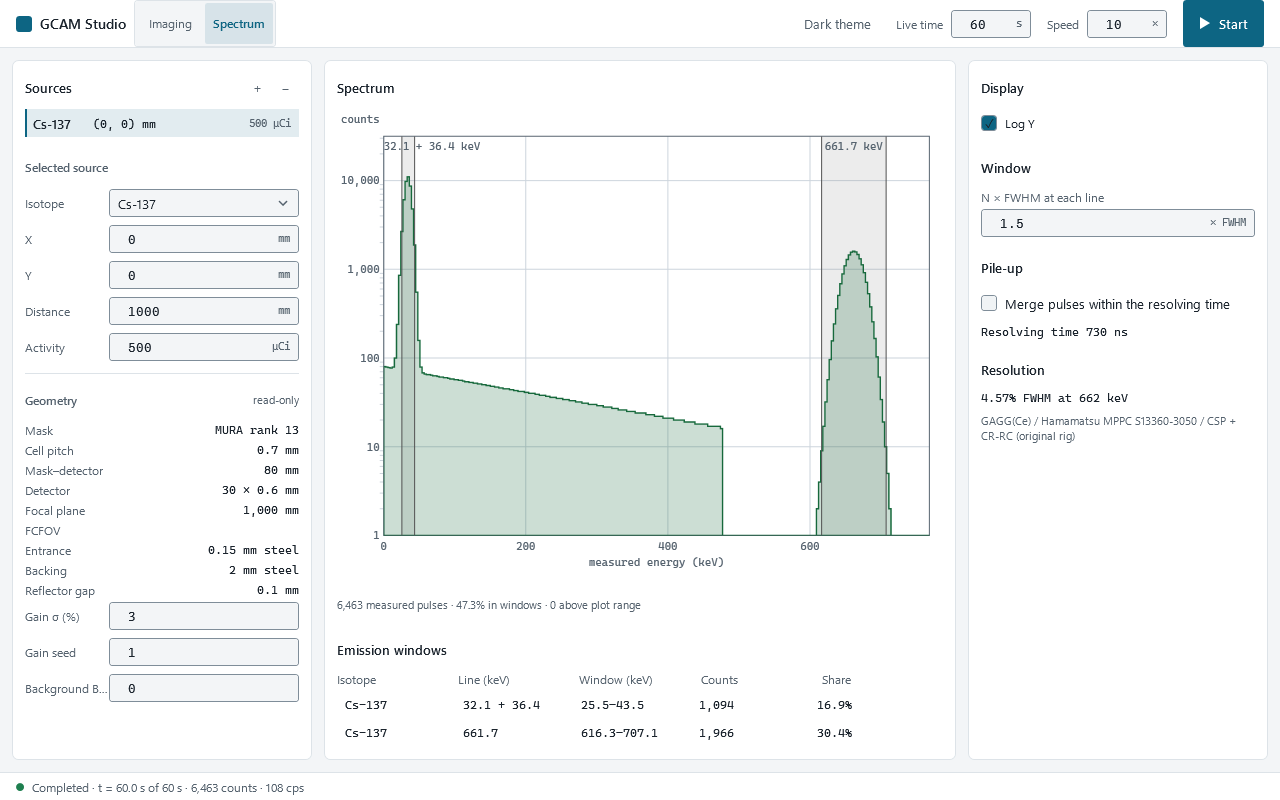
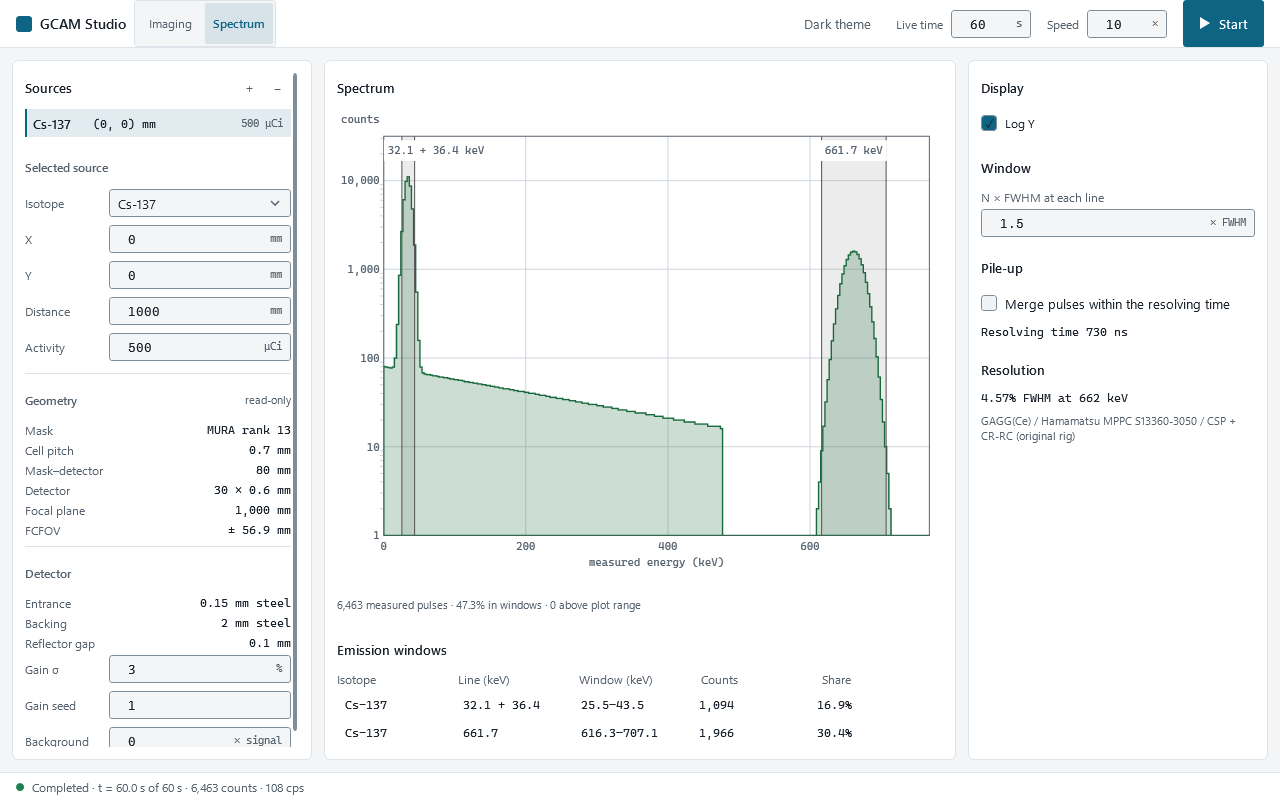
Studio: polish batch 2 - detector section, band label plates, no Window-ancestor bindings
- Left panel: Geometry (read-only) and Detector (entrance, backing, gap as
  facts; gain sigma %, gain seed, background x signal as inputs) split.
- Band labels on an opaque plate drawn after the edges (Pad.Plot.BandLabel).
- The three RelativeSource AncestorType=Window bindings now use the
  existing data contexts; the offscreen renders show FCFOV.
- All renders regenerated. Left panel scrolls at 1280x800 (later batch).

Claude-Session: https://claude.ai/code/session_01MoYmSMMjpEXNepzZnP8WWf

diff --git a/src/Gcam.Studio/Views/MainWindow.xaml b/src/Gcam.Studio/Views/MainWindow.xaml
@@ -86,7 +86,7 @@
                                 <DataTemplate>
                                     <RadioButton Content="{Binding Title}" GroupName="Workspace" Style="{StaticResource RadioButton.Segment}"
                                                  IsChecked="{Binding IsActive}"
-                                                 Command="{Binding DataContext.ActivateWorkspaceCommand, RelativeSource={RelativeSource AncestorType=Window}}"
+                                                 Command="{Binding DataContext.ActivateWorkspaceCommand, RelativeSource={RelativeSource AncestorType=ItemsControl}}"
                                                  CommandParameter="{Binding}" AutomationProperties.AutomationId="{Binding AutomationId}" />
                                 </DataTemplate>
                             </ItemsControl.ItemTemplate>
@@ -177,7 +177,7 @@
 
                         <!-- Selected source -->
                         <StackPanel DataContext="{Binding SelectedSource}"
-                                    IsEnabled="{Binding DataContext.IsIdle, RelativeSource={RelativeSource AncestorType=Window}}">
+                                    IsEnabled="{Binding DataContext.IsIdle, RelativeSource={RelativeSource AncestorType=ScrollViewer}}">
                             <DockPanel Style="{StaticResource PanelHeader}">
                                 <TextBlock Text="Selected source" Style="{StaticResource Text.SectionTitle}" />
                             </DockPanel>
@@ -234,10 +234,14 @@
                             </DockPanel>
                             <DockPanel Style="{StaticResource FactRow}">
                                 <TextBlock Text="FCFOV" Style="{StaticResource Text.Label}" />
-                                <TextBlock Text="{Binding DataContext.FcfovHalfMm, RelativeSource={RelativeSource AncestorType=Window}, StringFormat={}± {0:0.#} mm}"
+                                <TextBlock Text="{Binding DataContext.FcfovHalfMm, RelativeSource={RelativeSource AncestorType=ScrollViewer}, StringFormat={}± {0:0.#} mm}"
                                            Style="{StaticResource FactValue}" />
                             </DockPanel>
                         </StackPanel>
+                        <Border Style="{StaticResource Divider}" />
+                        <DockPanel Style="{StaticResource PanelHeader}">
+                            <TextBlock Text="Detector" Style="{StaticResource Text.SectionTitle}" />
+                        </DockPanel>
                         <StackPanel DataContext="{Binding Detector}">
                             <DockPanel Style="{StaticResource FactRow}">
                                 <TextBlock Text="Entrance" Style="{StaticResource Text.Label}" />
@@ -254,8 +258,8 @@
                         </StackPanel>
                         <StackPanel IsEnabled="{Binding IsIdle}">
                             <DockPanel Style="{StaticResource FieldRow}">
-                                <TextBlock Text="Gain σ (%)" Style="{StaticResource FieldLabel}" />
-                                <TextBox Text="{Binding GainSigmaPercent}" AutomationProperties.AutomationId="Detector.GainSigma"
+                                <TextBlock Text="Gain σ" Style="{StaticResource FieldLabel}" />
+                                <TextBox Text="{Binding GainSigmaPercent}" Tag="%" AutomationProperties.AutomationId="Detector.GainSigma"
                                          AutomationProperties.Name="Gain σ (%)" />
                             </DockPanel>
                             <DockPanel Style="{StaticResource FieldRow}">
@@ -264,8 +268,8 @@
                                          AutomationProperties.Name="Gain seed" />
                             </DockPanel>
                             <DockPanel Style="{StaticResource FieldRow}">
-                                <TextBlock Text="Background BSR" Style="{StaticResource FieldLabel}" />
-                                <TextBox Text="{Binding BackgroundToSignalRatio}" AutomationProperties.AutomationId="Acquisition.Background"
+                                <TextBlock Text="Background" Style="{StaticResource FieldLabel}" />
+                                <TextBox Text="{Binding BackgroundToSignalRatio}" Tag="× signal" AutomationProperties.AutomationId="Acquisition.Background"
                                          AutomationProperties.Name="Background BSR (detected background to signal ratio)" />
                             </DockPanel>
                         </StackPanel>

diff --git a/src/Gcam.Studio/Themes/Controls.xaml b/src/Gcam.Studio/Themes/Controls.xaml
@@ -455,6 +455,8 @@
         <Setter Property="GridBrush" Value="{DynamicResource Brush.Plot.Grid}" />
         <Setter Property="BandBrush" Value="{DynamicResource Brush.Plot.Band}" />
         <Setter Property="BandEdgeBrush" Value="{DynamicResource Brush.Plot.BandEdge}" />
+        <Setter Property="BandLabelBrush" Value="{DynamicResource Brush.Bg.Surface}" />
+        <Setter Property="BandLabelPadding" Value="{StaticResource Pad.Plot.BandLabel}" />
         <Setter Property="Series1Brush" Value="{DynamicResource Brush.Plot.Series1}" />
         <Setter Property="Series2Brush" Value="{DynamicResource Brush.Plot.Series2}" />
         <Setter Property="Series3Brush" Value="{DynamicResource Brush.Plot.Series3}" />

diff --git a/src/Gcam.Studio/Themes/Metrics.xaml b/src/Gcam.Studio/Themes/Metrics.xaml
@@ -13,6 +13,8 @@
     <Thickness x:Key="Pad.Control">8,0</Thickness>
     <Thickness x:Key="Pad.Button">12,0</Thickness>
     <Thickness x:Key="Pad.ListItem">8,0</Thickness>
+    <!-- Clear plot lines beneath band labels, including labels wider than their interval. -->
+    <Thickness x:Key="Pad.Plot.BandLabel">4</Thickness>
 
     <!-- Margins (Gap = space after an element) -->
     <Thickness x:Key="Gap.Tight">0,0,0,4</Thickness>

diff --git a/src/Gcam.Studio/Controls/PlotView.cs b/src/Gcam.Studio/Controls/PlotView.cs
@@ -102,6 +102,10 @@ public sealed class PlotView : FrameworkElement
     public Brush? BandBrush { get => (Brush?)GetValue(BandBrushProperty); set => SetValue(BandBrushProperty, value); }
     public static readonly DependencyProperty BandEdgeBrushProperty = Register<Brush?>(nameof(BandEdgeBrush), null);
     public Brush? BandEdgeBrush { get => (Brush?)GetValue(BandEdgeBrushProperty); set => SetValue(BandEdgeBrushProperty, value); }
+    public static readonly DependencyProperty BandLabelBrushProperty = Register<Brush?>(nameof(BandLabelBrush), null);
+    public Brush? BandLabelBrush { get => (Brush?)GetValue(BandLabelBrushProperty); set => SetValue(BandLabelBrushProperty, value); }
+    public static readonly DependencyProperty BandLabelPaddingProperty = Register(nameof(BandLabelPadding), new Thickness(4)); // Four-DIP fallback matches Pad.Plot.BandLabel.
+    public Thickness BandLabelPadding { get => (Thickness)GetValue(BandLabelPaddingProperty); set => SetValue(BandLabelPaddingProperty, value); }
     public static readonly DependencyProperty FocusBrushProperty = Register<Brush?>(nameof(FocusBrush), null);
     public Brush? FocusBrush { get => (Brush?)GetValue(FocusBrushProperty); set => SetValue(FocusBrushProperty, value); }
     public static readonly DependencyProperty Series1BrushProperty = Register<Brush?>(nameof(Series1Brush), null);
@@ -243,22 +247,28 @@ public sealed class PlotView : FrameworkElement
                 double centre = (a + b) / 2;
                 dc.DrawLine(Pen(Foreground), new Point(centre, r.Top), new Point(centre, r.Bottom));
             }
-            var labels = visibleBands.Select(b => Text(b.Label)).ToArray();
-            var layout = PlotBandLayout.Arrange(visibleBands.Select((b, i) =>
-                (ScreenX((b.Lo + b.Hi) / 2) - r.Left, labels[i].Width)).ToArray(), r.Width, LabelGap);
-            double rowHeight = labels.Length == 0 ? 0 : labels.Max(t => t.Height) + LabelGap;
-            foreach (var label in layout)
-            {
-                var text = labels[label.Index];
-                text.MaxTextWidth = Math.Max(1, label.Width);
-                text.Trimming = TextTrimming.CharacterEllipsis;
-                dc.DrawText(text, new Point(r.Left + label.Left, r.Top + LabelGap + label.Row * rowHeight));
-            }
             foreach (var marker in Markers ?? [])
             {
                 double x = ScreenX(marker.X);
                 dc.DrawLine(Pen(Foreground), new Point(x, r.Top), new Point(x, r.Bottom));
                 DrawText(dc, marker.Label, new Point(x + LabelGap, r.Top + Text(marker.Label).Height + LabelGap));
+            }
+            // Opaque plates draw last so edges, grid lines and traces cannot cross band text.
+            var padding = BandLabelPadding;
+            double horizontalPadding = padding.Left + padding.Right;
+            var labels = visibleBands.Select(b => Text(b.Label)).ToArray();
+            var layout = PlotBandLayout.Arrange(visibleBands.Select((b, i) =>
+                (ScreenX((b.Lo + b.Hi) / 2) - r.Left, labels[i].Width + horizontalPadding)).ToArray(), r.Width, LabelGap);
+            double rowHeight = labels.Length == 0 ? 0 : labels.Max(t => t.Height) + padding.Top + padding.Bottom + LabelGap;
+            foreach (var label in layout)
+            {
+                var text = labels[label.Index];
+                text.MaxTextWidth = Math.Max(1, label.Width - horizontalPadding);
+                text.Trimming = TextTrimming.CharacterEllipsis;
+                var plate = new Rect(r.Left + label.Left, r.Top + LabelGap + label.Row * rowHeight,
+                    label.Width, text.Height + padding.Top + padding.Bottom);
+                dc.DrawRectangle(BandLabelBrush, null, plate);
+                dc.DrawText(text, new Point(plate.Left + padding.Left, plate.Top + padding.Top));
             }
             dc.Pop();
         }

diff --git a/tests/Gcam.Studio.RenderTests/MainWindowRenderTests.cs b/tests/Gcam.Studio.RenderTests/MainWindowRenderTests.cs
@@ -5,6 +5,7 @@ using System.Windows;
 using System.Windows.Automation;
 using System.Windows.Controls;
 using System.Windows.Documents;
+using System.Windows.Data;
 using System.Windows.Media;
 using System.Windows.Media.Imaging;
 using System.Windows.Threading;
@@ -62,6 +63,20 @@ public sealed partial class PlotViewRenderTests
             // Flush binding work only; no input is queued or synthesized.
             Dispatcher.CurrentDispatcher.Invoke(() => { }, DispatcherPriority.ContextIdle);
             root.UpdateLayout();
+
+            var fcfov = Assert.Single(Descendants(root).OfType<TextBlock>(),
+                t => BindingOperations.GetBinding(t, TextBlock.TextProperty)?.Path.Path == "DataContext.FcfovHalfMm");
+            Assert.Equal($"± {model.FcfovHalfMm:0.#} mm", fcfov.Text);
+            var pickers = Descendants(root).OfType<RadioButton>().Where(
+                b => AutomationProperties.GetAutomationId(b).StartsWith("Workspace.", StringComparison.Ordinal)).ToArray();
+            Assert.Equal(model.Workspaces.Count, pickers.Length);
+            foreach (var picker in pickers)
+                Assert.Same(model.ActivateWorkspaceCommand, picker.Command);
+            var sourceEditor = Assert.Single(Descendants(root).OfType<StackPanel>(),
+                p => ReferenceEquals(p.DataContext, model.SelectedSource));
+            Assert.Equal(model.IsIdle, sourceEditor.IsEnabled);
+            Assert.Equal(BindingStatus.Active,
+                BindingOperations.GetBindingExpression(sourceEditor, UIElement.IsEnabledProperty)!.Status);
 
             foreach (var heatmap in Descendants(root).OfType<HeatmapView>())
             {

diff --git a/tests/Gcam.Studio.RenderTests/PlotViewRenderTests.cs b/tests/Gcam.Studio.RenderTests/PlotViewRenderTests.cs
@@ -68,6 +68,7 @@ public sealed partial class PlotViewRenderTests(ITestOutputHelper output)
             XLabel = "measured energy (keV)", YLabel = "counts",
             Foreground = Brush("Brush.Text.Primary"), GridBrush = Brush("Brush.Plot.Grid"),
             BandBrush = Brush("Brush.Plot.Band"), BandEdgeBrush = Brush("Brush.Plot.BandEdge"), FocusBrush = Brush("Brush.Focus"),
+            BandLabelBrush = Brush("Brush.Bg.Surface"), BandLabelPadding = (Thickness)resources["Pad.Plot.BandLabel"],
             Series1Brush = Brush("Brush.Plot.Series1"),
             Bands = [new(18, 50, "32.1 + 36.4 keV"), new(615, 708, "661.7 keV"),
                 new(1110, 1236, "1173.2 keV"), new(1265, 1400, "1332.5 keV")]

diff --git a/docs/DESIGN.Layout.md b/docs/DESIGN.Layout.md
@@ -8,6 +8,7 @@ Scope: GCAM Studio layout metrics (`src/Gcam.Studio/Themes/Metrics.xaml`) and ho
 |---|---|
 | Scale | 4 · 8 · 12 · 16 · 24 · 32 — expressed as the `Pad.*` / `Gap.*` Thickness keys below (XAML can't build a `Thickness` from `Double` keys, so there are no separate `Space.*` keys) |
 | Padding (`Pad.*`, inside a container) | `Pad.Window` 12 · `Pad.Panel` 12 · `Pad.Bar` 16,0 · `Pad.Control` 8,0 · `Pad.Button` 12,0 · `Pad.ListItem` 8,0 |
+| Plot label plate | `Pad.Plot.BandLabel` 4 on every side — prevents edges, grid and traces from touching band text; padded widths also determine collision rows |
 | Margin (`Gap.*`, after an element) | `Gap.Tight` 0,0,0,4 · `Gap.Field` 0,0,0,8 · `Gap.Section` 0,0,0,16 · `Gap.Title` 0,0,0,8 · `Gap.Inline` 0,0,8,0 · `Gap.InlineWide` 0,0,16,0 |
 | Grid gutter | `Gutter` 12 (a `GridLength` for gutter columns) |
 
@@ -37,7 +38,7 @@ combine a container's padding with a child's margin for the same edge.
 ```
 Row 0  Top bar (Size.Bar)          identity · workspace switch (when ≥2) · theme · live time (s) · speed × · ▶ Start / Stop
 Row 1  Content (a Border with Pad.Window)
-         Col 0  Scene panel (Size.SidePanel, scrollable)   sources · selected source · geometry · detector · background
+         Col 0  Scene panel (Size.SidePanel, scrollable)   sources · selected source · geometry · detector
          Col 1  Gutter
          Col 2  Selected workspace centre (DataTemplate by workspace type)
                 Imaging: [flood map] Gutter [reconstruction]
@@ -63,9 +64,12 @@ Imaging and Spectrum are registered: there are no placeholder workspaces. The sw
 an unavailable index leaves selection unchanged. Acquisition preserves selection. Shared scene / optics / live-time / speed inputs
 mark an existing result outdated; workspace view settings re-render without invalidating that result.
 
-The geometry section shows the detector entrance (0.15 mm steel-equivalent), backing (2 mm) and reflector
-gap (0.1 mm) read-only. Gain σ (%) and gain seed are editable acquisition inputs (defaults 3 and 1), followed
-by Background BSR (default 0, detected background/source ratio at 200 keV). These inputs are disabled during
+Geometry contains only read-only mask, cell pitch, mask–detector distance, detector grid, focal plane and
+FCFOV facts, and carries the read-only caption. A separate Detector section contains entrance
+(0.15 mm steel-equivalent), backing (2 mm) and reflector gap (0.1 mm) facts, then editable Gain σ
+(default 3, `%` suffix), Gain seed (default 1) and Background (default 0, `× signal` BSR suffix;
+detected background/source ratio at 200 keV). Short labels fit the existing 84-DIP field column.
+These inputs are disabled during
 acquisition and mark retained results outdated after an edit. The left panel scrolls when needed so all fields
 remain reachable at the minimum window height. Workspace activation follows `IsActive` as well as commands,
 so a UI Automation SelectionItem selection changes the centre and right panel.

diff --git a/docs/assets/studio-render/README.md b/docs/assets/studio-render/README.md
@@ -1,6 +1,6 @@
 # Studio content offscreen evidence
 
-Eight deterministic renders of the shipped MainWindow content at 96 DPI, en-US, for UI polish batch 1.
+Eight deterministic renders of the shipped MainWindow content at 96 DPI, en-US, for UI polish batches 1–2.
 The XAML window is constructed but never shown; its content is detached and measured/arranged under an
 AdornerDecorator. No Studio App, HWND, Run(), MC, focus or desktop input. A fake acquisition service
 publishes one immutable completed snapshot; a fake spectrum service supplies analytic drawing data.
@@ -17,12 +17,15 @@ Imaging shows B1-1 counts chip, B1-2 counts / (decoded) readouts and B1-3 value-
 Both workspaces show B1-4 centred 80 × 28 DIP inputs with suffixes. Spectrum shows B1-5 descriptive
 pile-up label, B1-6 original rig, B1-7 10,000 decade, B1-8 separate counts title row and B1-9 neutral
 bands with visible boundaries. These are review pictures, not automatic pixel baselines.
+Both workspaces also show B2-1 separate Geometry (read-only) and Detector sections, short Background
+and Gain σ labels with `× signal` / `%` suffixes, and B2-3 FCFOV `± 56.9 mm` resolved without a Window
+ancestor. Spectrum shows B2-2 opaque, padded band-label plates that cover the narrow band's edge lines.
 Compare with the earlier desktop [survey](../studio-polish-survey/README.md); acquisition data,
 window chrome and physical default settings differ. Layout work from later batches is not included.
 
 The existing [plot snapshots](../studio-plot/README.md) are regenerated by the same opt-in case.
 The render case checks acquisition completion, non-empty spectrum, heatmap readout units,
-input dimensions, plot zoom retention and Y retention.
+input dimensions, detached FCFOV / workspace-command / selected-source bindings, plot zoom retention and Y retention.
 
 ```powershell
 $env:GCAM_RENDER_SNAPSHOTS = '1'

diff --git a/docs/assets/studio-plot/README.md b/docs/assets/studio-plot/README.md
@@ -1,7 +1,7 @@
 # Spectrum plot offscreen evidence
 
 Fixed analytic Cs-137 + Co-60 drawing fixture, 256 bins of 6 keV; these images verify rendering,
-not detector physics. Produced on 2026-10-01 by `PlotViewRenderTests` through `RenderTargetBitmap`
+not detector physics. Regenerated on 2026-10-02 by `PlotViewRenderTests` through `RenderTargetBitmap`
 at 1000 × 600, 96 DPI, using the shipped theme tokens and mono font. No window, focus or mouse input.
 
 | Theme | Full axis | 580–740 keV zoom |
@@ -21,5 +21,7 @@ The test also verifies zoom and grow-only Y retention on data replacement and fu
 It initializes base WPF resource infrastructure, without constructing the Studio App or calling Run.
 Normal solution tests skip it. Desktop tests remain a separate final verification step.
 
-Batch 1 regenerates these plots with grouped log decades, a separate Y-title row, and neutral bands
-with edge lines. The same render case also captures [whole-window content](../studio-render/README.md).
+Batches 1–2 show grouped log decades, a separate Y-title row, neutral bands with edge lines and
+opaque, 4-DIP-padded band-label plates. In both full-axis images the narrow 32.1 + 36.4 keV label
+stays clear of the band's own edges; the zoom images show the label plate on the wider 661.7 keV band.
+The same render case also captures [whole-window content](../studio-render/README.md).

diff --git a/docs/PLAN.Studio.Polish.md b/docs/PLAN.Studio.Polish.md
@@ -5,7 +5,8 @@ Scope: the polish work the author made the focus on 2026-10-01 — what each bat
 (`docs/assets/studio-polish-survey/README.md`, P-xx) and the plot snapshots (`docs/assets/studio-plot/`). Order and
 the testing rule: [PLAN.Studio.Migration](PLAN.Studio.Migration.md).
 
-Status: batch 1 done 2026-10-01 (renders in `docs/assets/studio-render/`); batch 2 handed to Codex the same day.
+Status: batch 1 done 2026-10-01 (renders in `docs/assets/studio-render/`); batch 2 done the same day (detector section, label plates, no
+Window-ancestor bindings; FCFOV now in the renders).
 
 ## Batch 1 — design-system level (new workspaces inherit these)
 
@@ -53,6 +54,7 @@ Fixes:
 
 ## Later batches (after the workspaces exist)
 
-- Workspace layout: empty height under the images (P-04), emission-window table alignment and a Ba K row label
+- Workspace layout: the left panel scrolls at 1280 × 800 since the Detector section was added (compact or
+  collapsible sections), empty height under the images (P-04), emission-window table alignment and a Ba K row label
   (P-10), and the layouts of the Waveform / Detector workspaces when they land.
 - Then the desktop UI tests, the desktop survey and the README screenshot (last).

diff --git a/docs/DESIGN.Controls.md b/docs/DESIGN.Controls.md
@@ -121,7 +121,9 @@ Data updates only grow the top; navigation and log changes recompute it. Histogr
 draws a thin centre cursor with a readout such as `662.4 keV (660.9 – 663.9) · 1,234 counts`; default precision
 follows bin width, with optional X / Y formats. Line readout retains continuous coordinates without redrawing.
 Core `PlotBandLayout` centres labels on bands, clamps them to the plot and moves collisions to additional rows;
-text wider than the plot is ellipsized. Labels draw over the fill.
+text wider than the plot is ellipsized. Layout includes `BandLabelPadding` from `Pad.Plot.BandLabel`
+(4 DIP on every side). Labels draw last on opaque `BandLabelBrush` plates using `Brush.Bg.Surface`,
+so band edges, grid lines and data cannot cross the text, even when the label is wider than its band.
 
 Spectrum table selection requests the window plus one window width on each side. Snapshot row replacement
 retains selection without re-requesting zoom. Whole-window content and plot offscreen evidence uses `Gcam.Studio.RenderTests`, opt-in with

diff --git a/docs/DESIGN.ViewLayer.md b/docs/DESIGN.ViewLayer.md
@@ -47,6 +47,9 @@ loaded); it must carry a comment saying why it can't live elsewhere.
 - `App.xaml.cs` resolves `MainWindow` and sets `DataContext` to `MainViewModel` from the DI container.
 - Views bind to ViewModel properties and commands only. Acquisition uses `StartCommand` / `StopCommand`;
   its live time, speed, shared snapshots and state live in the shell ViewModel.
+- Shell bindings across item / section contexts use the context already on the containing `ItemsControl`
+  (workspace activation) or scene `ScrollViewer` (selected-source enablement and FCFOV), rather than a
+  Window ancestor. They also resolve when the content is rendered offscreen without a window parent.
 - Controls expose results as read-only dependency properties, and sibling elements bind to them by
   `ElementName` (`ColorBar.Minimum` ← `HeatmapView.DataMin`), so no code connects them.
 - The shared shell binds centre and panel `ContentControl`s to `SelectedWorkspace`; each uses a DataTemplate
